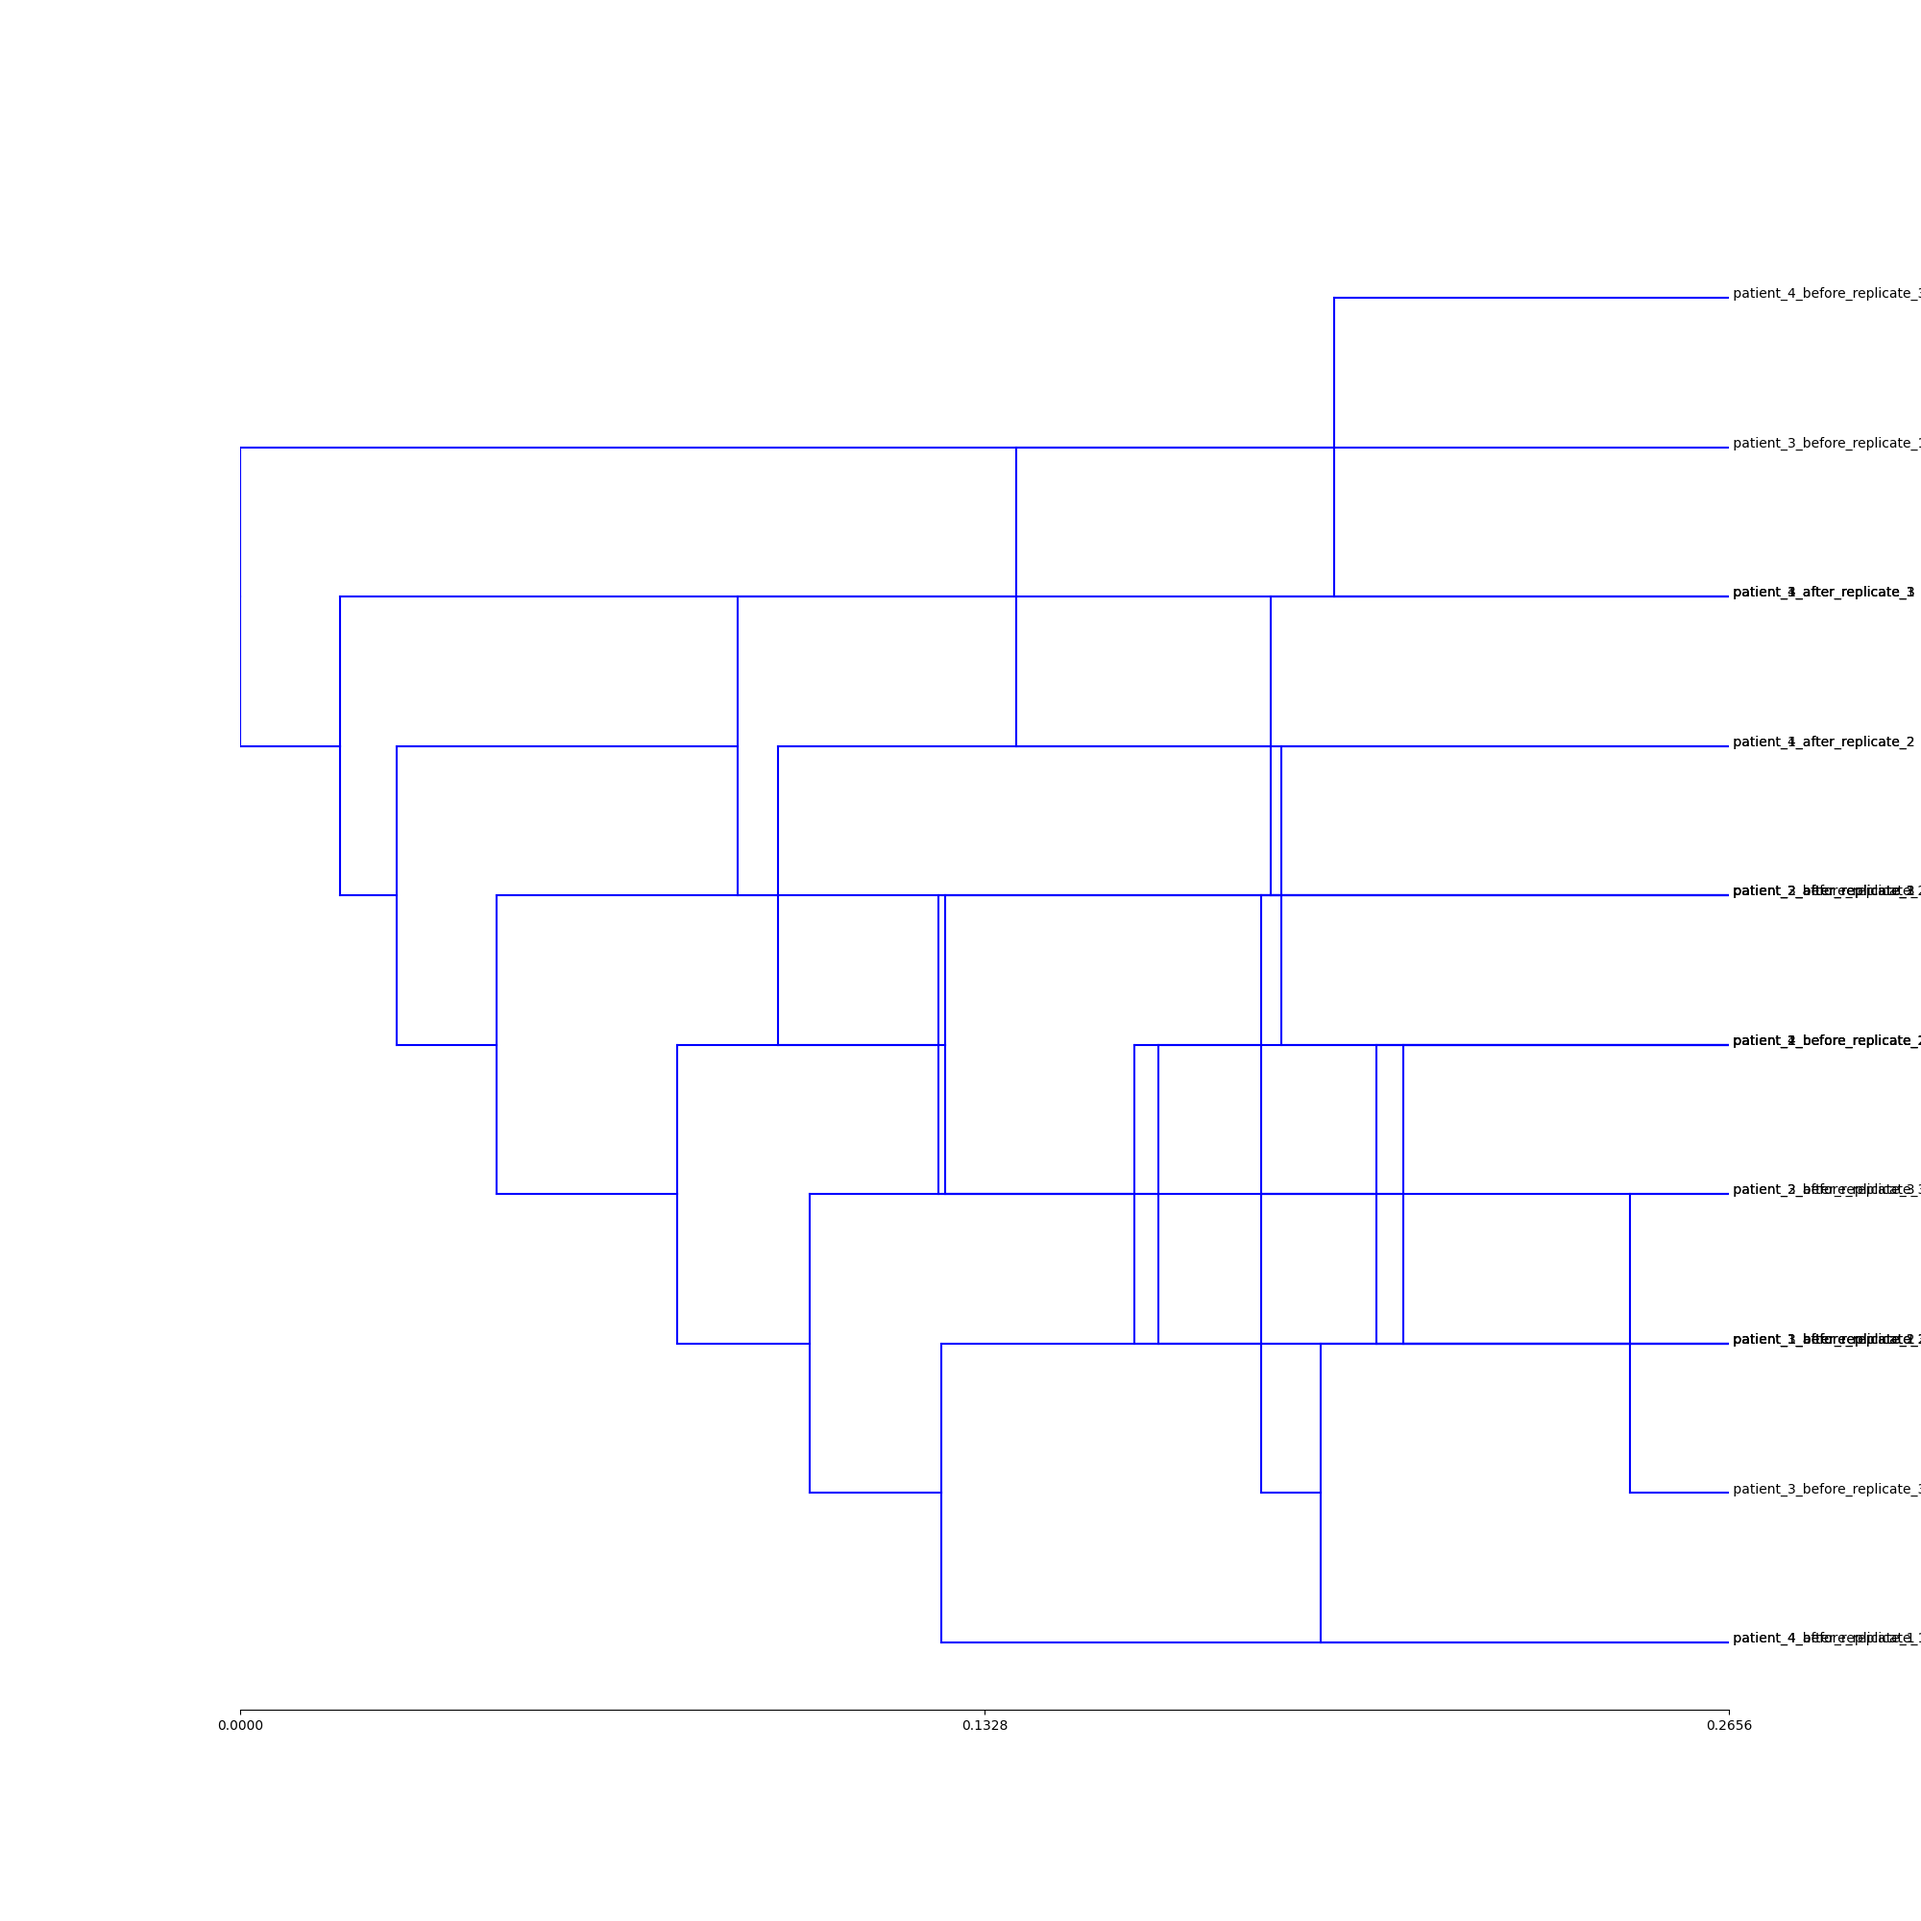
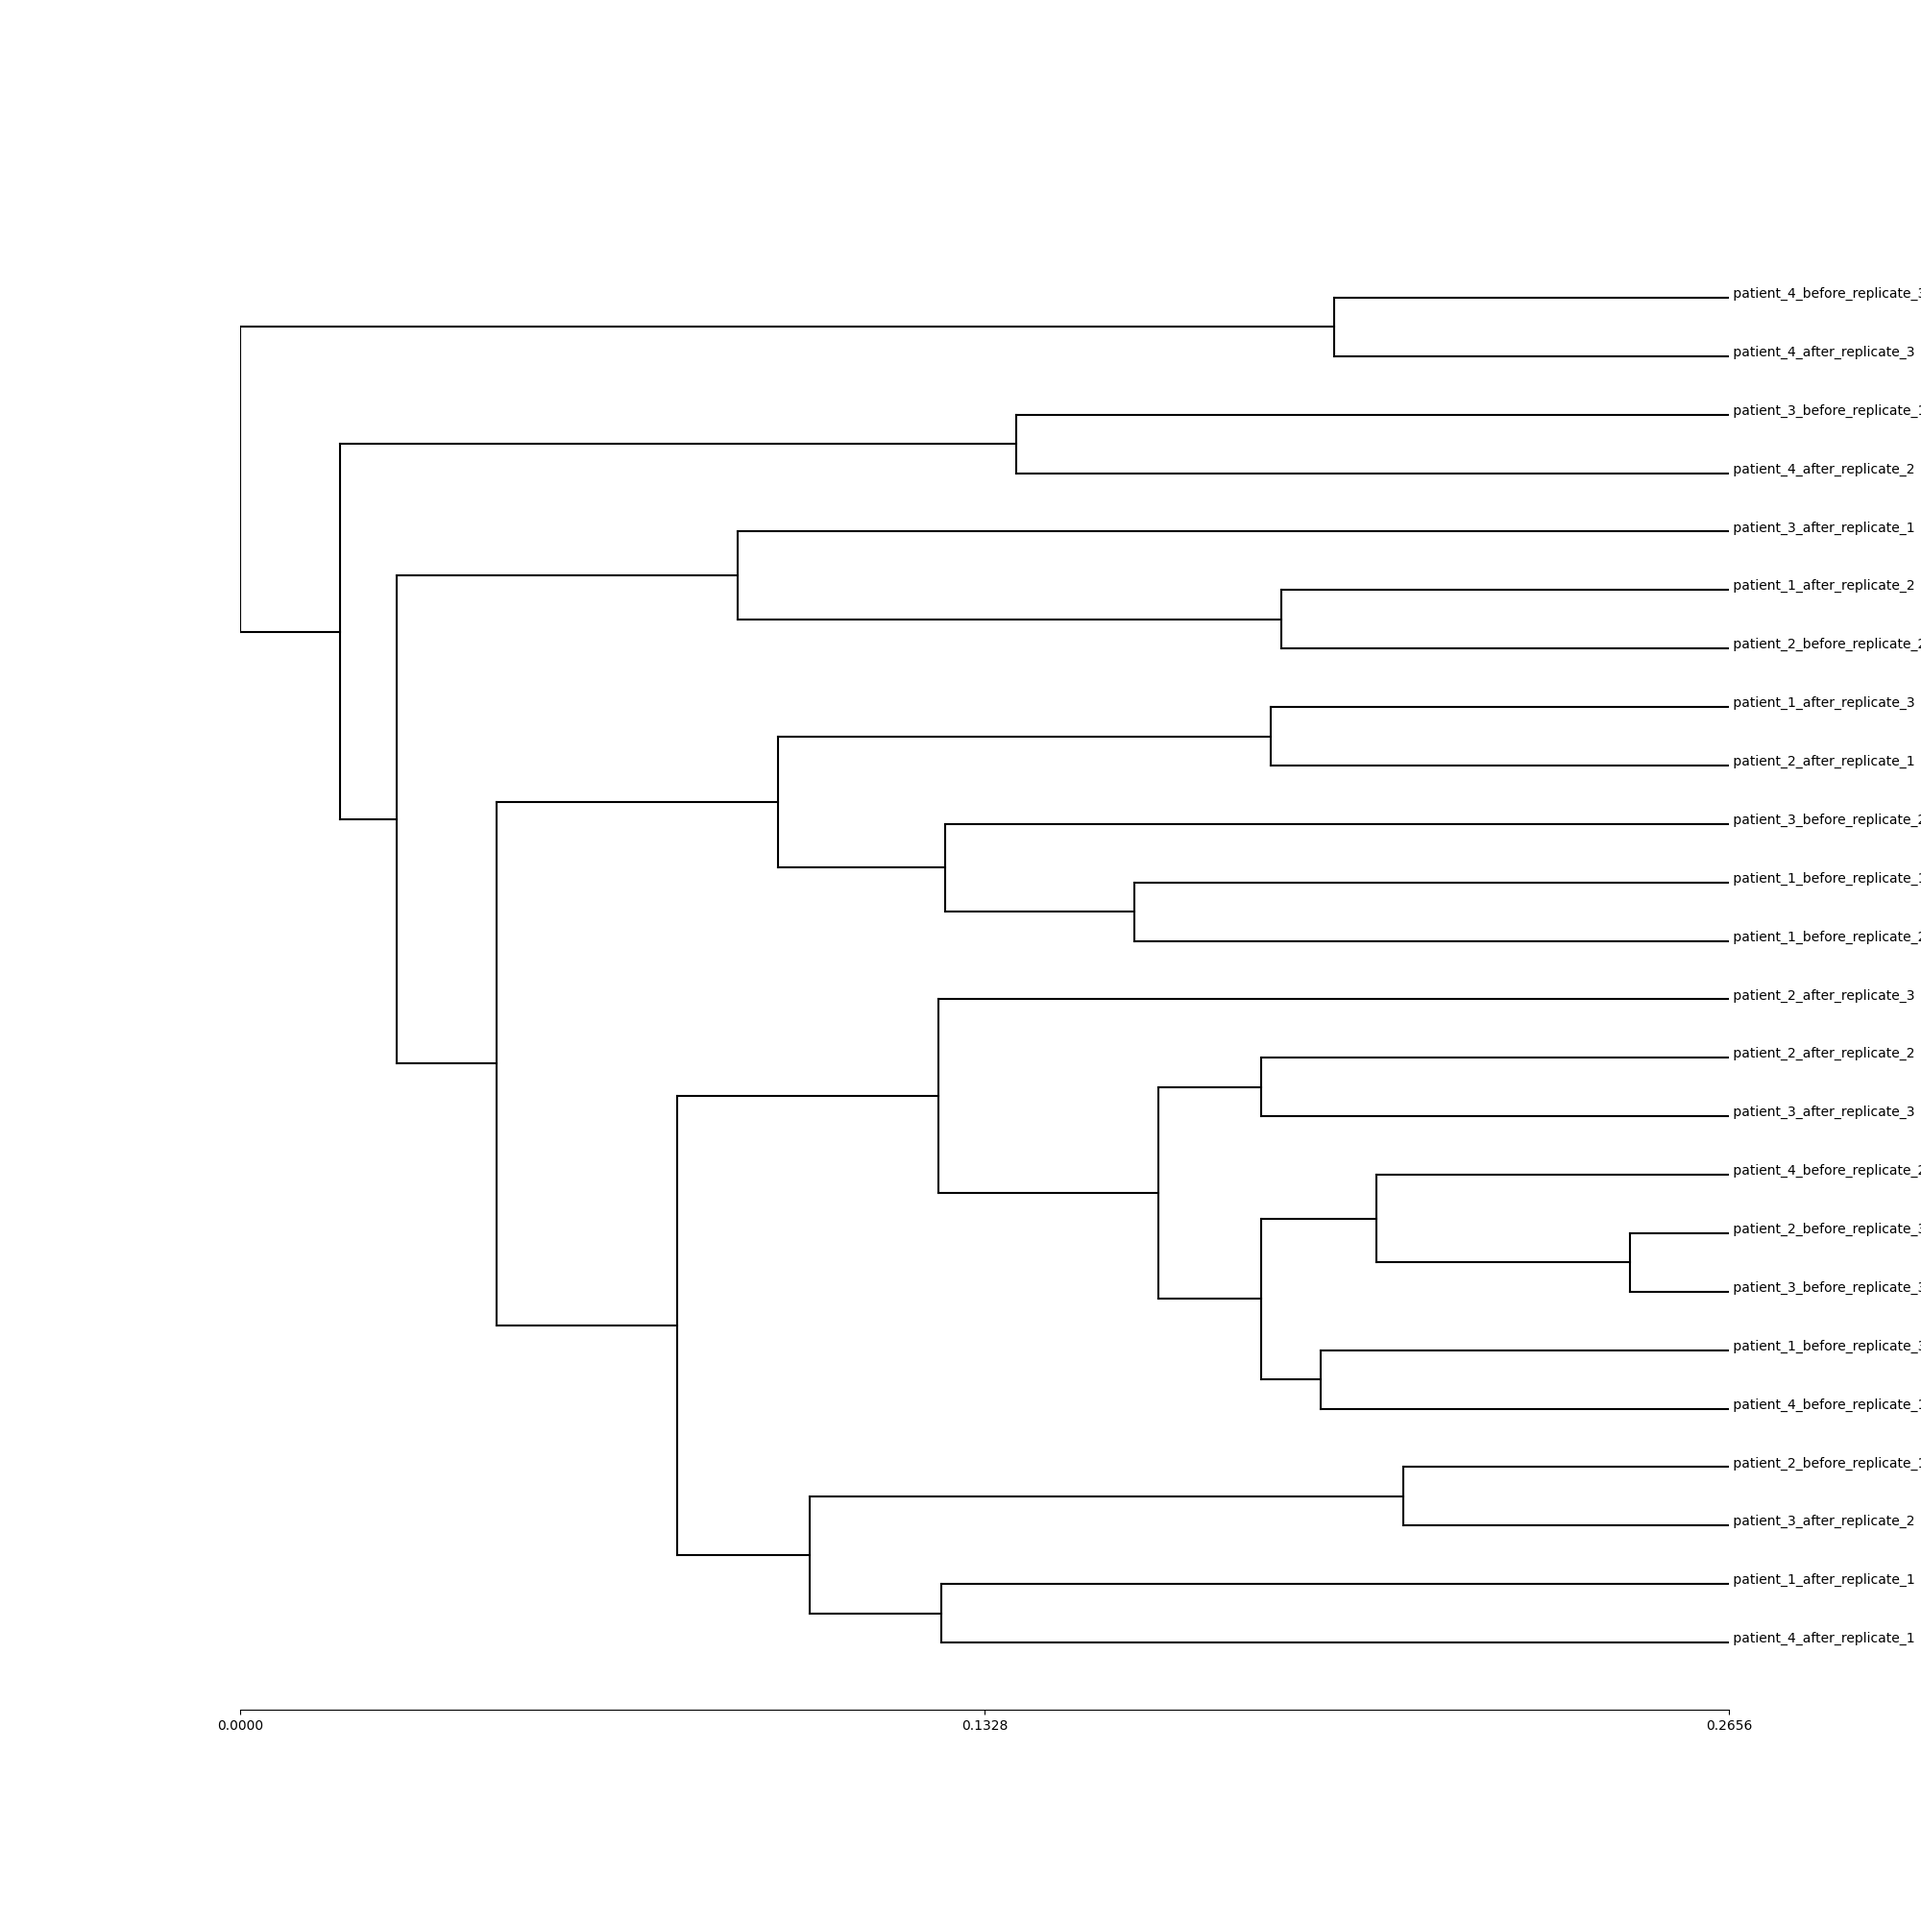
treeNewick works properly

diff --git a/SL.py b/SL.py
@@ -98,16 +98,20 @@ def plotHeatmap(plot) -> None:
 
 def treeNewick(newick: str, plot):
 
-    def plotIt(newick: str, plot, root_pos=(0, 0), **kwargs) -> "float[tree depth]":
+    def plotIt(newick: str, plot, x=0, **kwargs) -> "float[tree depth]":
         """
-        kwargs: treeDepth=0, leafLabels=True, nodeLabels=True, leafDist=1
+        kwargs: treeDepth=0, lowestLeaf=x, leafLabels=True, nodeLabels=True, treeColor="black"
         """
-        if not newick:
-            return
         if newick[0] == "(" and newick[-1] == ")":
             newick = newick[1:-1]
 
-        leafDist = 1
+        lowestLeaf = kwargs.get("lowestLeaf", 15)
+        treeColor = "black"
+        nodeLabels = kwargs.get("nodeLabels", True)
+        leafLabels = kwargs.get("leafLabels", True)
+        kwargs["treeDepth"] = kwargs.get("treeDepth", 0)
+        myPosY = None
+
         if newick[0] == "(":
             splitIndex, openBrackets = 1, 1
             while openBrackets > 0:
@@ -115,43 +119,45 @@ def treeNewick(newick: str, plot):
                 openBrackets -= newick[splitIndex] == ")"
                 splitIndex += 1
             splitIndex += newick[splitIndex:].find(",")
+
             if newick[splitIndex] == ")":  # if it's sth. like (subTree)C:1
                 label, length = newick[newick.rfind(")")+1:].split(":")
-                x, y = root_pos
-                if kwargs.get("nodeLabels", True):
-                    plot.text(x + float(length), y, " " + label)
-                plot.plot([x, x + float(length)], [y, y], color="blue")
-                kwargs["treeDepth"] = plotIt(newick[1: newick.rfind(")")], plot, (x + float(length), y), **kwargs)
+                kwargs["treeDepth"], kwargs["lowestLeaf"], myPosY = plotIt(newick[1: newick.rfind(")")], plot, x + float(length), **kwargs)
+                if nodeLabels:
+                    plot.text(x + float(length), myPosY, " " + label)
+                plot.plot([x, x + float(length)], [myPosY, myPosY], color=treeColor)
+
             else:  # if it's sth. like (subTree)R:1,(subTree)Q:1
                 upper, lower = newick[:splitIndex], newick[splitIndex+1:]
-                x, y = root_pos
-                plot.plot([x, x], [y, y+leafDist], color="blue")  # neuer y-Wert muss noch angepasst werden (wie zähle ich Blätter eines Teilbaums)
-                kwargs["treeDepth"] = plotIt(upper, plot, (x, y+leafDist), **kwargs)
-                plot.plot([x, x], [y, y-leafDist], color="blue")
-                kwargs["treeDepth"] = plotIt(lower, plot, (x, y-leafDist), **kwargs)
+                kwargs["treeDepth"], kwargs["lowestLeaf"], upperPos = plotIt(upper, plot, x, **kwargs)
+                kwargs["treeDepth"], kwargs["lowestLeaf"], lowerPos = plotIt(lower, plot, x, **kwargs)
+                plot.plot([x, x], [upperPos, lowerPos], color=treeColor)
+                myPosY = (upperPos - lowerPos) / 2 + lowerPos
 
-        elif "," in newick:  # if it's sth. like A:1,(subtree):B1
+        elif "," in newick:  # if it's sth. like A:1,(subtree)B:1
             upper, lower = newick.split(",", 1)
-            x, y = root_pos
-            plot.plot([x, x], [y, y+leafDist], color="blue")  # neuer y-Wert muss noch angepasst werden (wie zähle ich Blätter eines Teilbaums)
-            kwargs["treeDepth"] = plotIt(upper, plot, (x, y+leafDist), **kwargs)
-            plot.plot([x, x], [y, y-leafDist], color="blue")
-            kwargs["treeDepth"] = plotIt(lower, plot, (x, y-leafDist), **kwargs)
-        else:  # if it's sth. like A:1
+            kwargs["treeDepth"], kwargs["lowestLeaf"], upperPos = plotIt(upper, plot, x, **kwargs)
+            kwargs["treeDepth"], kwargs["lowestLeaf"], lowerPos = plotIt(lower, plot, x, **kwargs)
+            plot.plot([x, x], [upperPos, lowerPos], color=treeColor)
+            myPosY = (upperPos - lowerPos) / 2 + lowerPos
+
+        elif newick:  # if it's sth. like A:1
             label, length = newick.split(":")
-            x, y = root_pos
+            myPosY = lowestLeaf-1
             kwargs["treeDepth"] = max(kwargs.get("treeDepth", 0), x + float(length))
-            if kwargs.get("leafLabels", True):
-                plot.text(x + float(length), y, " " + label)
-            plot.plot([x, x + float(length)], [y, y], color="blue")
-        return kwargs.get("treeDepth", 0)
+            if leafLabels:
+                plot.text(x + float(length), myPosY, " " + label)
+            plot.plot([x, x + float(length)], [myPosY, myPosY], color=treeColor)
+            kwargs["lowestLeaf"] = myPosY
+
+        return kwargs["treeDepth"], kwargs["lowestLeaf"], myPosY
 
     newick = newick.replace(" ", "")
     childs = newick.count(":")
     if newick[-1] != ";":
         raise ValueError("Newick string doesn't end with a semicolon")
 
-    depth = plotIt(newick[:-1], plot)
+    depth, _, _ = plotIt(newick[:-1], plot)
     plot.set_xlim([0, depth])
     plot.set_xticks([0, depth/2,  depth])
     plot.spines['bottom'].set_visible(True)
@@ -159,9 +165,11 @@ def treeNewick(newick: str, plot):
     plot.spines['left'].set_visible(False)
     plot.spines['right'].set_visible(False)
     plot.yaxis.set_visible(False)
-    # print(globals()["plot"])
     globals()["plot"].savefig("tree.png")
 
 
 if __name__ == '__main__':
     main()
+    # a = np.random.normal(0, 1, 10)
+    # print("len=%d, avg=%f, <100: %s" % (len(a), sum(a)/len(a), np.all(abs(a) < 100)))
+    # print(abs(a))
